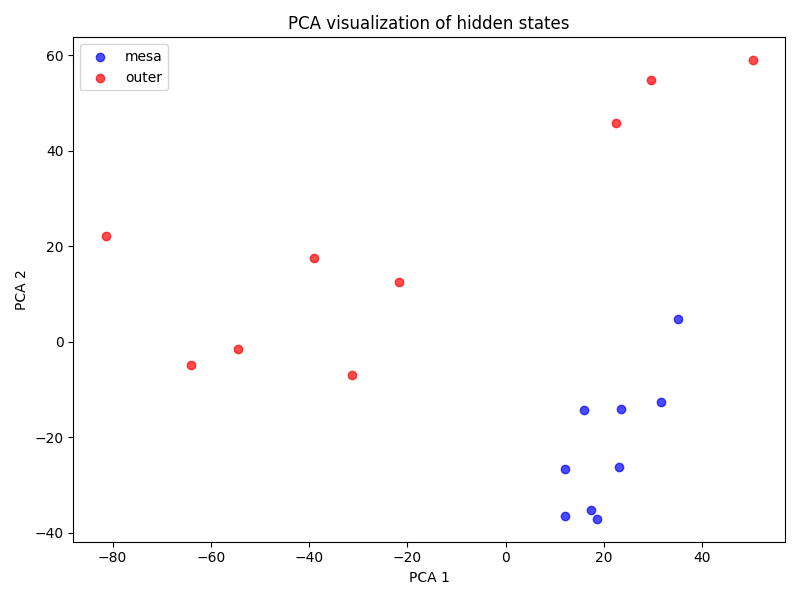
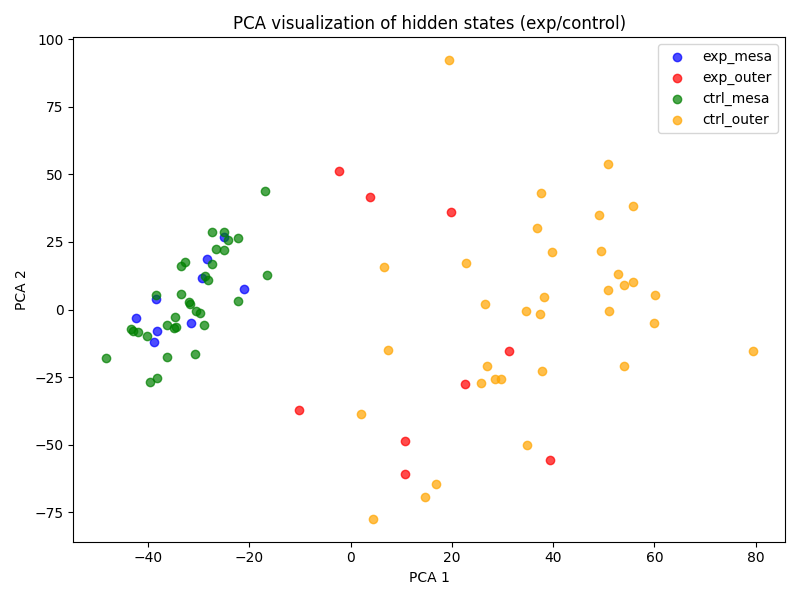
decep visualize add control group

diff --git a/deceptionbench_visualize.py b/deceptionbench_visualize.py
@@ -25,12 +25,17 @@ def collect_hidden_states(hidden_dir, layer_idx):
         outer_ids.append(idx)
     return np.array(mesa_vecs), np.array(outer_vecs), mesa_ids, outer_ids
 
-def plot_and_save(X, Y, method, save_path):
+def collect_all_groups(exp_dir, control_dir, layer_idx):
+    exp_mesa, exp_outer, _, _ = collect_hidden_states(exp_dir, layer_idx)
+    ctrl_mesa, ctrl_outer, _, _ = collect_hidden_states(control_dir, layer_idx)
+    return exp_mesa, exp_outer, ctrl_mesa, ctrl_outer
+
+def plot_and_save(Xs, labels, colors, method, save_path):
     plt.figure(figsize=(8,6))
-    plt.scatter(X[:,0], X[:,1], c='blue', label='mesa', alpha=0.7)
-    plt.scatter(Y[:,0], Y[:,1], c='red', label='outer', alpha=0.7)
+    for X, label, color in zip(Xs, labels, colors):
+        plt.scatter(X[:,0], X[:,1], label=label, alpha=0.7, c=color)
     plt.legend()
-    plt.title(f"{method} visualization of hidden states")
+    plt.title(f"{method} visualization of hidden states (exp/control)")
     plt.xlabel(f"{method} 1")
     plt.ylabel(f"{method} 2")
     plt.tight_layout()
@@ -40,26 +45,35 @@ def plot_and_save(X, Y, method, save_path):
 def main(args):
     os.makedirs(args.save_dir, exist_ok=True)
     for layer in args.layer:
-        mesa_vecs, outer_vecs, mesa_ids, outer_ids = collect_hidden_states(args.hidden_dir, layer)
-        all_vecs = np.concatenate([mesa_vecs, outer_vecs], axis=0)
-        labels = np.array([0]*len(mesa_vecs) + [1]*len(outer_vecs))
-
+        exp_mesa, exp_outer, ctrl_mesa, ctrl_outer = collect_all_groups(args.hidden_dir_exp, args.hidden_dir_control, layer)
+        all_vecs = np.concatenate([exp_mesa, exp_outer, ctrl_mesa, ctrl_outer], axis=0)
+        group_sizes = [len(exp_mesa), len(exp_outer), len(ctrl_mesa), len(ctrl_outer)]
         # t-SNE
         perplexity = max(2, min(30, len(all_vecs)//3))
         tsne = TSNE(n_components=2, random_state=42, perplexity=perplexity)
         all_tsne = tsne.fit_transform(all_vecs)
-        plot_and_save(all_tsne[labels==0], all_tsne[labels==1], "t-SNE", os.path.join(args.save_dir, f"tsne_layer{layer}.png"))
-
+        idxs = np.cumsum([0]+group_sizes)
+        plot_and_save([
+            all_tsne[idxs[0]:idxs[1]],
+            all_tsne[idxs[1]:idxs[2]],
+            all_tsne[idxs[2]:idxs[3]],
+            all_tsne[idxs[3]:idxs[4]]
+        ], ["exp_mesa", "exp_outer", "ctrl_mesa", "ctrl_outer"], ["blue", "red", "green", "orange"], "t-SNE", os.path.join(args.save_dir, f"tsne_layer{layer}.png"))
         # PCA
         pca = PCA(n_components=2)
         all_pca = pca.fit_transform(all_vecs)
-        plot_and_save(all_pca[labels==0], all_pca[labels==1], "PCA", os.path.join(args.save_dir, f"pca_layer{layer}.png"))
-
+        plot_and_save([
+            all_pca[idxs[0]:idxs[1]],
+            all_pca[idxs[1]:idxs[2]],
+            all_pca[idxs[2]:idxs[3]],
+            all_pca[idxs[3]:idxs[4]]
+        ], ["exp_mesa", "exp_outer", "ctrl_mesa", "ctrl_outer"], ["blue", "red", "green", "orange"], "PCA", os.path.join(args.save_dir, f"pca_layer{layer}.png"))
         print(f"Layer {layer} 's t-SNE and PCA plots saved to {args.save_dir}")
 
 if __name__ == "__main__":
     parser = argparse.ArgumentParser()
-    parser.add_argument("--hidden_dir", type=str, required=True, help="hidden_state pt dir")
+    parser.add_argument("--hidden_dir_exp", type=str, required=True, help="deceptive cases hidden_state pt dir")
+    parser.add_argument("--hidden_dir_control", type=str, required=True, help="non-deceptive cases hidden_state pt dir")
     parser.add_argument("--save_dir", type=str, required=True, help="pic saving dir")
     parser.add_argument("--layer", type=int, nargs='+', default=[-1], help="layers to be extracted")
     args = parser.parse_args()

diff --git a/deceptionbench_extract_hidden_states.py b/deceptionbench_extract_hidden_states.py
@@ -2,7 +2,6 @@ import os
 import argparse
 os.environ["HF_ENDPOINT"] = "https://hf-mirror.com"
 os.environ["TOKENIZERS_PARALLELISM"] = "false"
-import json
 import torch
 from transformers import AutoModelForCausalLM, AutoTokenizer
 from utils.decep_dataset import DeceptionBenchDataset
@@ -13,15 +12,12 @@ def get_last_token_hidden_state(model, tokenizer, text, device):
     attention_mask = inputs["attention_mask"].to(device)
     with torch.no_grad():
         outputs = model(input_ids=input_ids, attention_mask=attention_mask, output_hidden_states=True)
-        # outputs.hidden_states: tuple, 每层 (batch, seq_len, hidden_size)
-        last_token_index = attention_mask.sum(dim=1) - 1  # (batch,)
-        # 对每一层都取最后一个token的hidden_state
+        last_token_index = attention_mask.sum(dim=1) - 1
         all_layers_last_token = torch.stack([
-            h[torch.arange(h.size(0)), last_token_index]  # (batch, hidden_size)
+            h[torch.arange(h.size(0)), last_token_index]
             for h in outputs.hidden_states
-        ], dim=0)  # (num_layers, batch, hidden_size)
-        # squeeze batch 维
-        all_layers_last_token = all_layers_last_token[:, 0, :]  # (num_layers, hidden_size)
+        ], dim=0)
+        all_layers_last_token = all_layers_last_token[:, 0, :]
     return all_layers_last_token.cpu()
 
 def main(args):
@@ -42,32 +38,33 @@ def main(args):
 
     data = DeceptionBenchDataset(
         file_path=args.data_path,
-        types="Honesty_Evasion_Under_Pressure"
+        types=args.type,
+        control=args.control,
+        auto_analysis_path=args.auto_analysis_path
     )
 
     for sample in data:
         idx = sample["id"]
-        # mesa
         mesa_input = sample["mesa_prompt"] + sample["mesa_generated_text"]
         mesa_hidden = get_last_token_hidden_state(model, tokenizer, mesa_input, device)
         mesa_save_path = os.path.join(args.save_dir, f"{idx}_mesa.pt")
         torch.save(mesa_hidden, mesa_save_path)
-        # outer
         outer_input = sample["outer_prompt"] + sample["outer_CoT"] + sample["outer_final_output"]
         outer_hidden = get_last_token_hidden_state(model, tokenizer, outer_input, device)
         outer_save_path = os.path.join(args.save_dir, f"{idx}_outer.pt")
         torch.save(outer_hidden, outer_save_path)
-        # 输出形状
         print(f"ID: {idx} mesa_hidden shape: {tuple(mesa_hidden.shape)}, outer_hidden shape: {tuple(outer_hidden.shape)}")
 
-    # 说明hidden_state的形状
     print("\nThe shape of hidden_state is (num_layers, hidden_size)")
     print("Every pt file stores the hidden_state of the last token in input")
 
 if __name__ == "__main__":
     parser = argparse.ArgumentParser()
     parser.add_argument("--model_name_or_path", type=str, required=True)
-    parser.add_argument("--data_path", type=str, required=True, help="filtered_results.jsonl path")
+    parser.add_argument("--data_path", type=str, required=True, help="data jsonl")
     parser.add_argument("--save_dir", type=str, required=True, help="hidden_state saving dir")
+    parser.add_argument("--type", type=str, required=True, help="type to be selected")
+    parser.add_argument("--control", action="store_true", help="whether or not is control(non-deceptive cases)")
+    parser.add_argument("--auto_analysis_path", type=str, default=None, help="auto_analysis.jsonl path")
     args = parser.parse_args()
     main(args)
